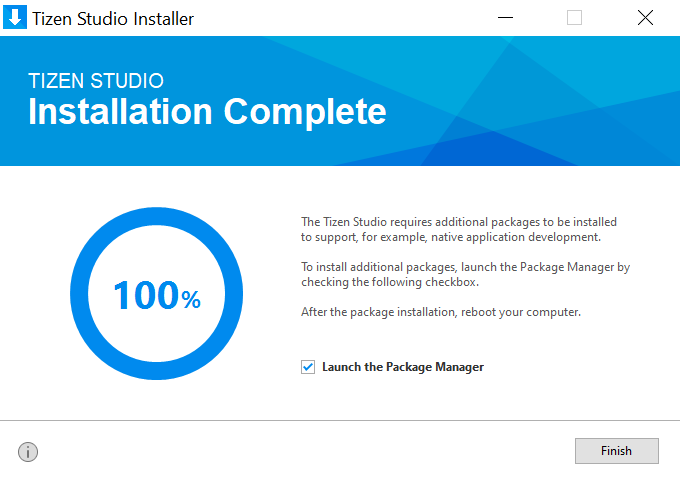
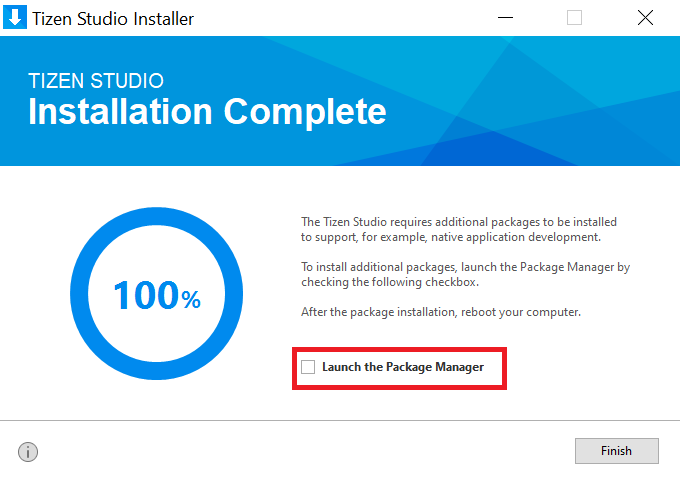
chore: remove unnecessary step

diff --git a/.github/GUIDES/INSTALL.md b/.github/GUIDES/INSTALL.md
@@ -4,9 +4,8 @@
 
 1. Install [Tizen Studio](https://developer.tizen.org/development/tizen-studio/download)
     <br />![1.png](https://raw.githubusercontent.com/jhassan8/crunchyroll-tizen/master/.github/GUIDES/imgs/1.PNG)
-    ![2.png](https://raw.githubusercontent.com/jhassan8/crunchyroll-tizen/master/.github/GUIDES/imgs/2.PNG)
-    ![3.png](https://raw.githubusercontent.com/jhassan8/crunchyroll-tizen/master/.github/GUIDES/imgs/3.PNG)
-    ![4.png](https://raw.githubusercontent.com/jhassan8/crunchyroll-tizen/master/.github/GUIDES/imgs/4.PNG)
+    - Uncheck option "Launch the Package Manager"
+    <br />![2.png](https://raw.githubusercontent.com/jhassan8/crunchyroll-tizen/master/.github/GUIDES/imgs/2.PNG)
 2. Get your PC ip address
     - In the next step you will need the PC IP ADDRESS
     <br />![5.png](https://raw.githubusercontent.com/jhassan8/crunchyroll-tizen/master/.github/GUIDES/imgs/5.png)
